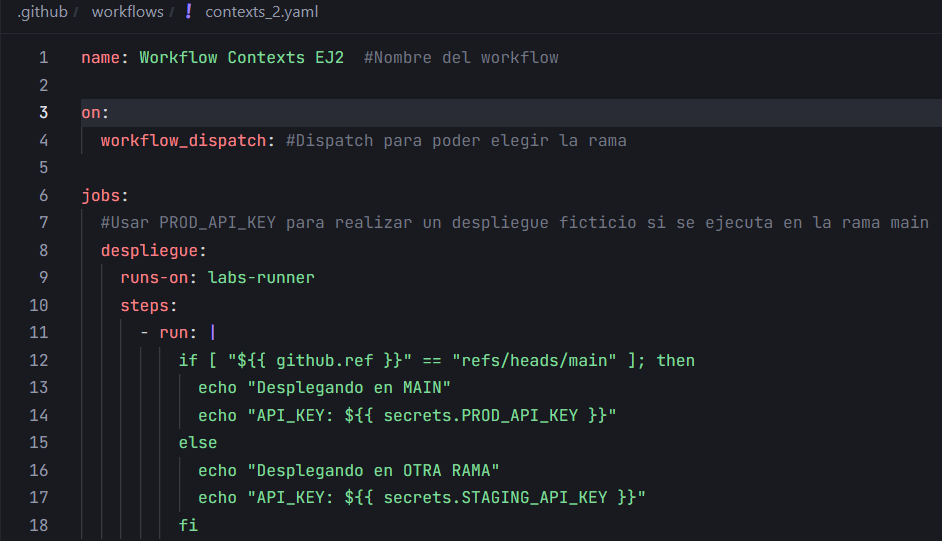
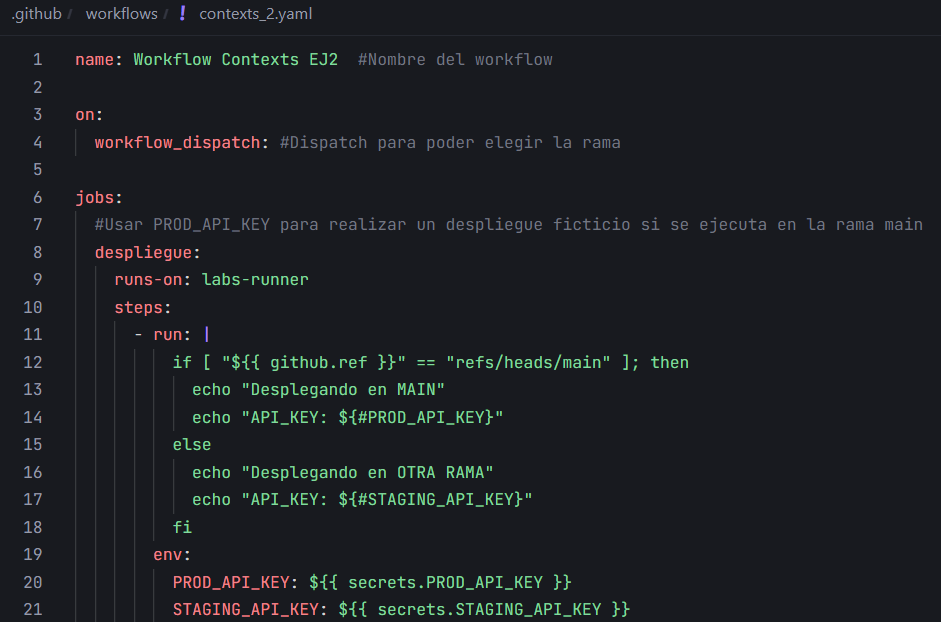
contexts ej2 completado

diff --git a/soluciones/contexts/ejercicio2.md b/soluciones/contexts/ejercicio2.md
@@ -2,7 +2,49 @@
 
 ## Configura un workflow que utilice un secreto llamado PROD_API_KEY para realizar un despliegue ficticio si se ejecuta en la rama main, y otro secreto llamado STAGING_API_KEY para cualquier otra rama
 
+Workflow:
+
+![](../../datos/contexts_ej2_foto1.png)
+
 **El workflow debería:**
 
 - Utilizar el contexto secrets para inyectar la API Key correspondiente en un comando de despliegue ficticio.
+
+Controlar la rama en la que se ejecuta:
+
+```yaml
+if [ "${{ github.ref }}" == "refs/heads/main" ]; then
+```
+
+En caso de que se haga en main el despliegue ficticio se hace con:
+
+```yaml
+ ${{ secrets.PROD_API_KEY }}
+```
+
+En caso de que se haga en otra rama el despliegue ficticio se hace con:
+
+```yaml
+${{ secrets.STAGING_API_KEY }}
+```
+
 - Imprimir un mensaje indicando cuál API Key se utilizó.
+
+Los secrets se crean en un `env` y el mensaje se imprime con un `echo`:
+
+```yaml
+echo "API_KEY: ${#PROD_API_KEY}"
+echo "API_KEY: ${#STAGING_API_KEY}"
+```
+
+Comprobar resultado ejecutando la rama main:
+
+![](../../datos/contexts_ej2_foto2.png)
+
+![](../../datos/contexts_ej2_foto3.png)
+
+Comprobar resultado ejecutando otra rama:
+
+![](../../datos/contexts_ej2_foto4.png)
+
+![](../../datos/contexts_ej2_foto5.png)
